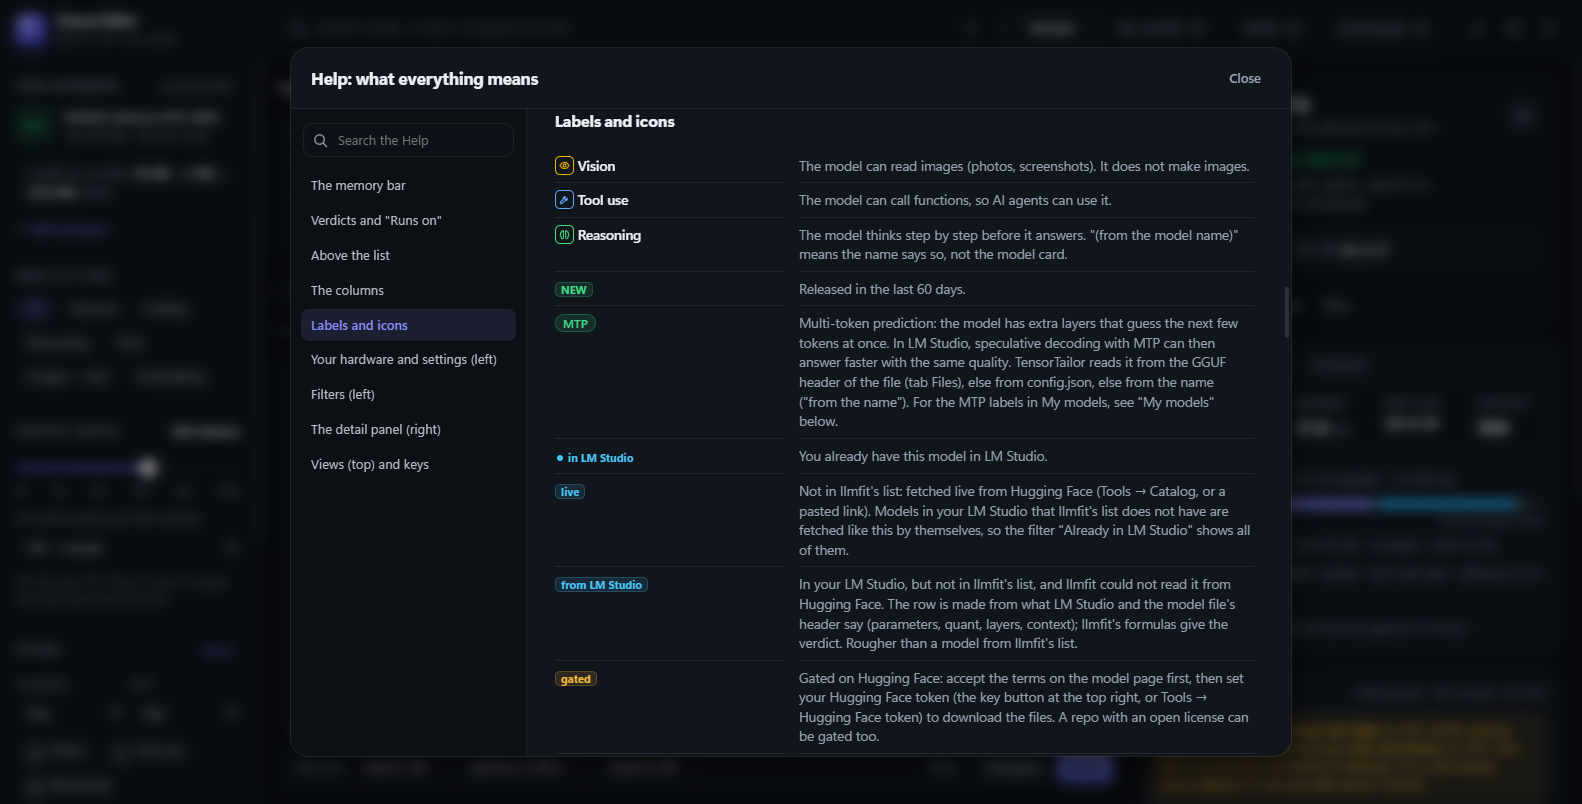
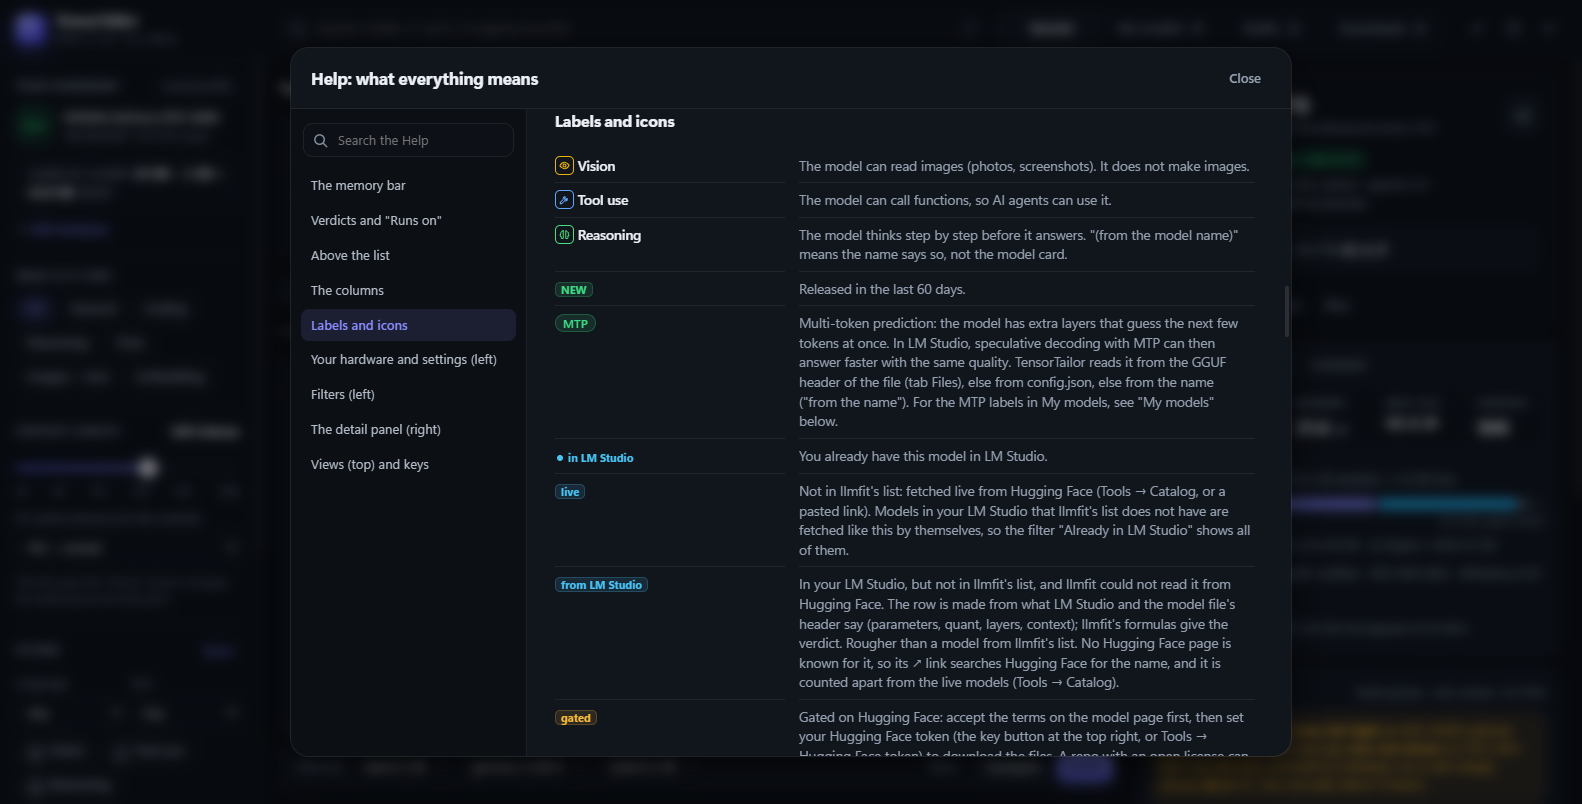
Implemented by Claude Opus 5.5: fix(web): target speed from the route speeds; no made-up Hugging Face links for LM Studio rows
F1: "Can it reach my speed?" now answers from the plan's route speeds. llmfit's own
target check ignores the GPU's bandwidth (llmfit issue #1253, fix PR #1254) and said
"No feasible run path" for a target below the speed it shows itself.
F2: rows made from LM Studio's data ("lmstudio/<key>") get a Hugging Face search link
instead of a page that does not exist, no tree or config.json requests, and are counted
apart from live models in Tools, the catalog window and About.
New test test-plan-reach (19 tests), Help and README updated, README pictures retaken.

Changed region(s): [[0.4956, 0.7774, 0.7743, 0.9328], [0.3407, 0.8085, 0.4027, 0.9017]]

diff --git a/web/app.html b/web/app.html
@@ -1151,7 +1151,7 @@ details.by-hand .hint { margin-top: 6px; }
       <dt><span class="tag okay">MTP</span></dt><dd>Multi-token prediction: the model has extra layers that guess the next few tokens at once. In LM Studio, speculative decoding with MTP can then answer faster with the same quality. TensorTailor reads it from the GGUF header of the file (tab Files), else from config.json, else from the name ("from the name"). For the MTP labels in My models, see "My models" below.</dd>
       <dt><span class="chip lms">in LM Studio</span></dt><dd>You already have this model in LM Studio.</dd>
       <dt><span class="chip live">live</span></dt><dd>Not in llmfit's list: fetched live from Hugging Face (Tools → Catalog, or a pasted link). Models in your LM Studio that llmfit's list does not have are fetched like this by themselves, so the filter "Already in LM Studio" shows all of them.</dd>
-      <dt><span class="chip live">from LM Studio</span></dt><dd>In your LM Studio, but not in llmfit's list, and llmfit could not read it from Hugging Face. The row is made from what LM Studio and the model file's header say (parameters, quant, layers, context); llmfit's formulas give the verdict. Rougher than a model from llmfit's list.</dd>
+      <dt><span class="chip live">from LM Studio</span></dt><dd>In your LM Studio, but not in llmfit's list, and llmfit could not read it from Hugging Face. The row is made from what LM Studio and the model file's header say (parameters, quant, layers, context); llmfit's formulas give the verdict. Rougher than a model from llmfit's list. No Hugging Face page is known for it, so its ↗ link searches Hugging Face for the name, and it is counted apart from the live models (Tools → Catalog).</dd>
       <dt><span class="chip lock">gated</span></dt><dd>Gated on Hugging Face: accept the terms on the model page first, then set your Hugging Face token (the key button at the top right, or Tools → Hugging Face token) to download the files. A repo with an open license can be gated too.</dd>
       <dt><span class="chip">license</span> (grey)</dt><dd>Not a plain open license (MIT, Apache): Llama, Gemma, non-commercial or research licenses have their own terms. Read them on the model page. Not gated: the files download without a token.</dd>
       <dt><span class="chip lock">license</span> (orange)</dt><dd>The same kind of license, but not checked yet: the guess comes from the license name. Open the model and TensorTailor asks Hugging Face; the label then becomes <b>gated</b> or a grey <b>license</b>.</dd>
@@ -1202,7 +1202,7 @@ details.by-hand .hint { margin-top: 6px; }
       <dt>Files</dt><dd>The real files on Hugging Face, one line per file (point at a long name for the full name; the copy button copies the download link), the file "best for this PC" first, and the verdict per file. <b>Download</b> saves a file into your folder and checks its SHA-256 at the end. <b>Show SHA-256 of each file</b> (under the table) shows the codes; click one to copy it.</dd>
       <dt>Run</dt><dd>"LM Studio load settings for this PC": what to set in LM Studio's load dialog for this model (context length, GPU offload, flash attention, K/V cache, speculative decoding, remember settings), with the reason; point at a <span class="q">?</span> for what each setting does. <b>Set it by hand in LM Studio</b> (folded) says where these settings are in LM Studio. <b>Load in LM Studio with these settings</b> (when the model is in LM Studio and its server is on) first shows what will be sent, then asks LM Studio to load it: context length, flash attention, KV cache on the GPU and MTP. LM Studio's API cannot set GPU offload and K/V cache quantization, so LM Studio keeps its own setting for those. A model that is loaded already is unloaded first; other loaded models stay, unless you tick the box to unload them.</dd>
       <dt>Run: Run it on this PC</dt><dd>Ready commands for LM Studio, llama.cpp or Ollama. With LM Studio, a model you already have shows <b>your</b> file first ("Your file in LM Studio · quant Q4_K_S"); llmfit's best file is named below it as an option: higher quality but less room for context, or smaller but lower quality. Below it: settings for AI agents (OpenCode, Codex).</dd>
-      <dt>Plan</dt><dd>llmfit's planner: the minimum and recommended hardware, which routes work here (<b>GPU only</b>, <b>GPU + system RAM</b>, <b>CPU only</b>) with a verdict and speed for each, and <b>What would make it better?</b>: for example "+1.7 GB VRAM → Runs well (llmfit: Good)". Below: whether a target speed is reached, how many chats fit at the same time, and the disk space for your best models.</dd>
+      <dt>Plan</dt><dd>llmfit's planner: the minimum and recommended hardware, which routes work here (<b>GPU only</b>, <b>GPU + system RAM</b>, <b>CPU only</b>) with a verdict and speed for each, and <b>What would make it better?</b>: for example "+1.7 GB VRAM → Runs well (llmfit: Good)". Below: whether a target speed is reached (the answer uses the route speeds above), how many chats fit at the same time, and the disk space for your best models.</dd>
     </dl>
 
     <h3>Views (top) and keys</h3>
@@ -1667,7 +1667,7 @@ function rowHTML(r) {
   return `<div class="row ${b.plain === "nofit" ? "is-tight" : ""}" role="option" aria-selected="${m.id === state.selected}" data-id="${esc(m.id)}">
     <div class="row-acts"><button class="star" data-watch="${esc(m.id)}" aria-pressed="${state.watch.has(m.id)}" title="Favorite (W): star the models you like; see them all with 'Only my favorites'" aria-label="Favorite ${esc(m.name)}">${state.watch.has(m.id) ? "★" : "☆"}</button><input type="checkbox" data-cmp="${esc(m.id)}" ${state.compare.includes(m.id) ? "checked" : ""} title="Select for compare or battle (C)" aria-label="Select ${esc(m.name)}"></div>
     ${avatar(m)}
-    <div class="m-name"><div class="nm"><span class="t">${esc(m.name)}</span><a class="hf-link" href="https://huggingface.co/${esc(m.id)}" target="_blank" rel="noopener" title="Open on Hugging Face" aria-label="Open ${esc(m.name)} on Hugging Face">↗</a>${m.moe ? `<span class="chip moe" title="${esc(CHIP_TIP.moe)}">MoE</span>` : ""}${r.upgradeOnly ? `<span class="chip upg" title="${esc(CHIP_TIP.upg)}">upgrade</span>` : ""}</div>
+    <div class="m-name"><div class="nm"><span class="t">${esc(m.name)}</span><a class="hf-link" href="${esc(hfHref(m.id))}" target="_blank" rel="noopener" title="${m.fromLms ? "Search Hugging Face for this model" : "Open on Hugging Face"}" aria-label="${m.fromLms ? "Search Hugging Face for" : "Open"} ${esc(m.name)}${m.fromLms ? "" : " on Hugging Face"}">↗</a>${m.moe ? `<span class="chip moe" title="${esc(CHIP_TIP.moe)}">MoE</span>` : ""}${r.upgradeOnly ? `<span class="chip upg" title="${esc(CHIP_TIP.upg)}">upgrade</span>` : ""}</div>
       <div class="sub">${capIcons(m.caps)}${isNew(m) ? `<span class="chip new" title="${esc(CHIP_TIP.new + (m.added ? " Released " + m.added + "." : ""))}">NEW</span>` : ""}${m.fromLms ? `<span class="chip live" title="${esc(CHIP_TIP.fromLms)}">from LM Studio</span>` : m.live ? `<span class="chip live" title="Fetched live from Hugging Face${m.live !== "yes" ? " on " + esc(m.live) : ""}, not in llmfit's list">live</span>` : ""}${String(b.conf).startsWith("measured") ? `<span class="chip meas" title="${esc(CHIP_TIP.meas)}">measured</span>` : ""}${m.runtime && m.runtime !== "LlamaCpp" ? `<span class="chip vllm" title="${esc(CHIP_TIP.runtime.replace("{rt}", m.runtime))}">${esc(m.runtime)}</span>` : ""}${lms ? `<span class="chip lms" title="${esc(CHIP_TIP.lms)}">in LM Studio</span>` : ""}${licenseChip(m)}<span class="idt">${esc(m.provider)} · <span title="Number of parameters (B = billion, M = million)">${fmtParams(m.params)}</span></span></div></div>
     <div title="Best file: the best quantization (file version) llmfit picks for this PC. Q8_0 = near original quality; lower numbers (Q4, Q3, Q2) = smaller and faster, but less precise."><span class="quant">${esc(b.q)}</span></div>
     <div class="membar${b.vram > 0 && b.inRam <= 0.05 && b.need / b.vram > 0.88 ? " hot" : ""}" title="${esc(memTip(b))}">${memBar(b)}<div class="memlabel"><span>${memLabel(b)}</span>${b.vram > 0 ? `<span class="pct">${Math.round(100 * Math.min(b.inGpu, b.vram) / b.vram)}%</span>` : ""}</div></div>
@@ -1677,6 +1677,10 @@ function rowHTML(r) {
 }
 const sizeBucket = (p) => (p <= 8 ? "s" : p <= 35 ? "m" : p <= 100 ? "l" : "xl");
 // GGUF sources from llmfit; a model whose own repo is a GGUF repo is its own source.
+// Rows made from LM Studio's data ("lmstudio/<key>", label "from LM Studio") have no Hugging Face repo: no
+// links to one and no requests for one; the link searches Hugging Face for the name instead.
+function lmsOnly(id) { const t = state.live.meta[id]; return !!(t && t.src === "lms"); }
+function hfHref(id) { return lmsOnly(id) ? "https://huggingface.co/models?search=" + encodeURIComponent(String(id).replace(/^lmstudio\//, "")) : "https://huggingface.co/" + id; }
 function ggufSources(m) { return m.gguf.length ? m.gguf : /gguf/i.test(m.id) ? [{ repo: m.id, provider: m.provider }] : []; }
 function chosenRepo(m) {
   const custom = state.srcIdx["repo:" + m.id];
@@ -2303,8 +2307,8 @@ function tabRun(r) {
   const repo = chosenRepo(m);
   // The settings card reads layers, MTP and a drafter from the GGUF repo, or else from the model's own repo
   // (many fine-tunes keep their .gguf files there).
-  const setRepo = repo || m.id;
-  if (!state.files.get(setRepo)) setTimeout(() => loadFiles(setRepo), 0);
+  const setRepo = repo || (lmsOnly(m.id) ? null : m.id);
+  if (setRepo && !state.files.get(setRepo)) setTimeout(() => loadFiles(setRepo), 0);
   const f = repo ? state.files.get(repo) : null;
   const file = f && f.files ? (f.files.find((x) => x.path.endsWith(".gguf") && quantOfFile(x.path) === String(b.q).toUpperCase()) || {}).path : null;
   const ctx = r.ctx || CTX_STEPS[state.ctxIdx], kv = state.kvq;
@@ -2343,14 +2347,17 @@ function tabRun(r) {
 }
 
 /* ---------- Plan tab: llmfit planner ---------- */
-async function loadTargetPlan(r) {
-  const key = "target|" + detailKey(r.m.id) + "|" + state.plan.target;
-  if (state.detail.has(key)) return;
-  const entry = { loading: true }; state.detail.set(key, entry);
-  try { entry.plan = await call("plan", JSON.stringify(hwInput(state.upg.gpu || state.upg.ram)), r.m.id, r.ctx || CTX_STEPS[state.ctxIdx], /^Q\d|^F16|^BF16/i.test(r.best.q) ? r.best.q : null, state.kvq, state.plan.target); }
-  catch (e) { entry.error = e.message; }
-  entry.loading = false;
-  if (state.selected === r.m.id && state.tab === "plan") renderDetail();
+// "Can it reach my speed?" is answered from the routes of the plan above (their speed counts the GPU's memory
+// speed). llmfit's own target check (plan with target_tps) does not, so it said "no route" for a target below
+// the speed it shows itself (llmfit issue #1253, fix in PR #1254).
+function reachText(plan, target) {
+  if (!plan) return "";
+  const routes = (plan.run_paths || []).filter((p) => p.feasible && p.estimated_tps > 0 && p.fit_level !== "TooTight");
+  const hit = routes.find((p) => p.estimated_tps >= target);
+  if (hit) return `<div class="ok-box">Yes: <b>${esc(ROUTE_NAME[hit.path] || hit.path)}</b> reaches about ${fmtT(hit.estimated_tps)} tok/s.</div>`;
+  const best = routes.slice().sort((a, c) => c.estimated_tps - a.estimated_tps)[0];
+  if (!best) return `<div class="warn-box">No route runs this model on this PC.</div>`;
+  return `<div class="warn-box">Not reached: the fastest route here, <b>${esc(ROUTE_NAME[best.path] || best.path)}</b>, gives about ${fmtT(best.estimated_tps)} tok/s. A smaller file (quant) or a GPU with faster memory helps.</div>`;
 }
 // Plan tab in plain words: route names, hardware as a tile, upgrade lines with an arrow and a verdict label.
 const ROUTE_NAME = { gpu: "GPU only", cpu_offload: "GPU + system RAM", cpu_only: "CPU only", moe_offload: "MoE offload (experts in RAM)" };
@@ -2364,8 +2371,6 @@ function upgText(desc) {
 function hwText(h) { return h ? `${h.vram_gb != null ? gb(h.vram_gb) + " VRAM · " : ""}${gb(h.ram_gb)} RAM · ${h.cpu_cores} cores` : "—"; }
 function tabPlan(r, d) {
   const b = r.best, plan = d && d.plan;
-  const tKey = "target|" + detailKey(r.m.id) + "|" + state.plan.target, tp = state.detail.get(tKey);
-  if (!tp) loadTargetPlan(r);
   const alt = plan ? (plan.kv_alternatives || []).find((a) => a.kv_quant === state.kvq) || (plan.kv_alternatives || [])[0] : null;
   const kvSession = alt ? alt.kv_cache_gb : 0;
   const free = b.vram - (b.need - kvSession);
@@ -2381,7 +2386,7 @@ function tabPlan(r, d) {
   </section>
   <section class="card"><div class="card-head"><h2>Can it reach my speed?</h2><span class="ctx-value">${state.plan.target} tok/s</span></div>
     <input type="range" id="planTarget" min="5" max="150" step="5" value="${state.plan.target}" aria-label="Target speed">
-    ${!tp || tp.loading ? '<div class="loading">Asking the engine…</div>' : tp.error ? `<div class="warn-box">Not on any route: ${esc(tp.error)}</div>` : `<ul class="notes">${(tp.plan.upgrade_deltas || []).length ? tp.plan.upgrade_deltas.map((u) => `<li>${upgText(u.description)}</li>`).join("") : "<li>Reached with your current hardware.</li>"}</ul>`}
+    ${!d || d.loading ? '<div class="loading">Asking the engine…</div>' : reachText(plan, state.plan.target)}
   </section>
   <section class="card"><div class="card-head"><h2>How many chats at the same time?</h2><span class="ctx-value">${state.plan.users} wanted</span></div>
     <input type="range" id="planUsers" min="1" max="16" step="1" value="${state.plan.users}" aria-label="Chats at the same time">
@@ -2414,7 +2419,7 @@ function renderDetail() {
     ? `<button class="btn primary small" data-headload="${esc(m.id)}" title="Opens the Run tab and shows what will be sent to LM Studio first">Load in LM Studio…</button>`
     : (ggufSources(m).length || /gguf/i.test(m.id)) && b.plain !== "nofit" ? `<button class="btn primary small" data-tab="files" title="Opens the Files tab: the file marked 'best for this PC' has the Download button">Choose a file to download</button>` : "";
   $("detail").innerHTML = `<section class="card dhead">
-    <div class="dh-top">${avatar(m, true)}<div class="dh-name"><h1 class="d-title">${esc(m.name)}</h1><a class="d-id" href="https://huggingface.co/${esc(m.id)}" target="_blank" rel="noopener" title="Open on Hugging Face">huggingface.co/${esc(m.id)} ↗</a></div><button class="btn icon fav" data-watch="${esc(m.id)}" aria-pressed="${fav}" aria-label="Favorite" title="Favorite (W): see all favorites with 'Only my favorites'">${fav ? "★" : "☆"}</button></div>
+    <div class="dh-top">${avatar(m, true)}<div class="dh-name"><h1 class="d-title">${esc(m.name)}</h1><a class="d-id" href="${esc(hfHref(m.id))}" target="_blank" rel="noopener" title="${m.fromLms ? "Made from LM Studio's data: no Hugging Face page is known. Search Hugging Face for it" : "Open on Hugging Face"}">${m.fromLms ? "No Hugging Face page known · search Hugging Face" : `huggingface.co/${esc(m.id)}`}↗</a></div><button class="btn icon fav" data-watch="${esc(m.id)}" aria-pressed="${fav}" aria-label="Favorite" title="Favorite (W): see all favorites with 'Only my favorites'">${fav ? "★" : "☆"}</button></div>
     <div class="d-facts">${capIcons(m.caps)}${mtpTag(m)}${m.fromLms ? `<span class="tag okay" title="${esc(CHIP_TIP.fromLms)}">from LM Studio</span>` : m.live ? `<span class="tag okay" title="Not in llmfit's list: fetched live from Hugging Face and converted with llmfit's own code">live from Hugging Face${m.live !== "yes" ? " · " + esc(m.live) : ""}</span>` : ""}${lms ? `<span class="chip lms" title="${esc(CHIP_TIP.lms)}">in LM Studio</span>` : ""}<span class="d-meta">${meta.map((x) => `<span class="mi">${esc(x)}</span>`).join(" · ")}</span></div>
     <div class="d-answer v-${b.plain}">${verdict(b.plain)}<span class="d-file" title="${esc("The quantization (file version) llmfit picks for this PC. Overview, Files and the commands use it.")}">Best file <b>${esc(b.q)}</b></span>${lmsQ ? `<span class="d-file" title="The file you have in LM Studio. The LM Studio settings in Run are for this file.">In LM Studio <b>${esc(lmsQ)}</b></span>` : ""}<span class="spacer"></span>${action}</div>
     <div class="tabs" role="tablist" aria-label="Details">${tabs.map(([k, l]) => `<button role="tab" id="tab-${k}" data-tab="${k}" aria-selected="${state.tab === k}" aria-controls="detailPanel" tabindex="${state.tab === k ? 0 : -1}">${l}</button>`).join("")}</div></section><div class="tab-panel" role="tabpanel" id="detailPanel" aria-labelledby="tab-${state.tab}">${body}</div>`;
@@ -2452,8 +2457,8 @@ async function applyLive() {
   await recompute();
 }
 function renderCatalogText() {
-  const n = state.live.models.length;
-  $("catText").textContent = `Catalog ${state.info.llmfit_ref} · ${state.catalog.length.toLocaleString("en")} models` + (n ? ` (${n} live)` : "");
+  const n = state.live.models.filter((m) => !lmsOnly(m.name)).length, k = state.live.models.length - n;
+  $("catText").textContent = `Catalog ${state.info.llmfit_ref} · ${state.catalog.length.toLocaleString("en")} models` + (n || k ? ` (${[n ? `${n} live` : "", k ? `${k} from LM Studio` : ""].filter(Boolean).join(", ")})` : "");
   $("q").placeholder = "Search models, or paste a Hugging Face link"; $("q").title = `Search ${state.catalog.length.toLocaleString("en")} models by name or publisher, or paste a Hugging Face link and press Enter to check it live`;
 }
 function hfRepoId(s) {
@@ -2561,15 +2566,18 @@ async function clearLive() {
 function renderCatalogDlg() {
   const L = state.live, r = state.liveResult, ref = esc(state.info.llmfit_ref || "");
   const ranked = new Set(state.results.map((x) => x.m.id));
-  const names = L.models.map((m) => m.name).reverse(), shown = names.filter((n) => ranked.has(n)), left = names.filter((n) => !ranked.has(n));
+  const all = L.models.map((m) => m.name).reverse(), fromLms = all.filter(lmsOnly), names = all.filter((n) => !lmsOnly(n));
+  const shown = names.filter((n) => ranked.has(n)), left = names.filter((n) => !ranked.has(n)), fetched = names.length;
   $("catBody").innerHTML = `<p>The list comes from llmfit ${ref}. llmfit's own updater (<code>llmfit update</code>) adds the newest trending and most downloaded models from Hugging Face. <b>Fetch new models</b> does the same in this page, with llmfit's own code.</p>
     <dl class="lic"><dt>From llmfit ${ref}</dt><dd>${Number(state.info.catalog_models || 0).toLocaleString("en")} models</dd>
-    <dt>Fetched live</dt><dd>${L.models.length ? `${L.models.length} models` + (L.at ? ` · last fetch ${esc(L.at)}` : " (from checked links)") : "none yet"}</dd></dl>
+    <dt>Fetched live</dt><dd>${fetched ? `${fetched} models` + (L.at ? ` · last fetch ${esc(L.at)}` : " (from checked links)") : "none yet"}</dd>
+    ${fromLms.length ? `<dt>From LM Studio</dt><dd>${fromLms.length} models (made from LM Studio's data; not on Hugging Face as far as TensorTailor knows)</dd>` : ""}</dl>
     ${state.liveLog ? `<p class="status-line"><span class="dot warn"></span>${esc(state.liveLog)}</p>` : ""}
     ${r && r.error ? `<div class="warn-box">Stopped: ${esc(r.error)}</div>` : ""}
     ${r && !r.error ? `<p><b>Last fetch:</b> ${r.checked} models checked, ${r.known} already in the list, <b>${r.added.length} added</b>${r.added.length ? ` (${r.added.filter((n) => ranked.has(n)).length} analysed for this PC)` : ""}${r.skipped ? `, ${r.skipped} of a kind llmfit does not list` : ""}.</p>` : ""}
     ${r && r.warn && r.warn.length ? `<p class="hint">Some lists did not load: ${esc(r.warn[0])}</p>` : ""}
     ${shown.length ? `<p style="margin-bottom:0">Fetched models analysed for this PC (${shown.length}, newest first). Click one to open it:</p><ul class="live-list">${shown.map((n) => `<li><button data-show="${esc(n)}">${esc(n)}</button></li>`).join("")}</ul>` : ""}
+    ${fromLms.length ? `<p style="margin-bottom:0">Made from LM Studio's data (label <b>from LM Studio</b>, ${fromLms.length}). Click one to open it:</p><ul class="live-list">${fromLms.map((n) => `<li><button data-show="${esc(n)}">${esc(n.replace(/^lmstudio\//, ""))}</button></li>`).join("")}</ul>` : ""}
     ${left.length ? `<p style="margin-bottom:0">Left out of llmfit's ranking on this PC (${left.length}): ${esc(NOT_RANKED)}</p><ul class="live-list">${left.map((n) => `<li>${esc(n)} <a href="https://huggingface.co/${esc(n)}" target="_blank" rel="noopener">↗</a></li>`).join("")}</ul>` : ""}
     <p class="hint">Fetched models get the label <b>live</b> and stay in this browser until you remove them. Most are new, so the filter "Popular (10,000+ downloads)" can hide them. Gated models (such as Llama) need your token for the exact layout; without it they get llmfit's rough estimate, like in llmfit.</p>`;
   $("btnLiveFetch").disabled = state.liveBusy || !state.ready;
@@ -2628,7 +2636,7 @@ const MTP_WHAT = "MTP (multi-token prediction): the model has extra layers that 
 async function loadMtpConfig(id) {
   if (state.mtp.has(id)) return;
   state.mtp.set(id, { loading: true });
-  const text = await hfConfigText(id);
+  const text = lmsOnly(id) ? null : await hfConfigText(id);
   let layers = null;
   if (text) {
     try {
@@ -3498,7 +3506,7 @@ function viewMine() {
     const best = isEmb ? { text: "", tip: "", warn: "" } : mineBestSetting(x, cat);
     const tipText = best.text;
     const warn = best.warn ? `<div class="hash" style="color:var(--marginal)">Loaded at ${fmtCtx(x.loadedCtx)}: ${best.warn}.</div>` : "";
-    const link = cat ? "https://huggingface.co/" + cat.m.id : "https://huggingface.co/models?search=" + encodeURIComponent(shortName(x.id));
+    const link = cat && !lmsOnly(cat.m.id) ? "https://huggingface.co/" + cat.m.id :"https://huggingface.co/models?search=" + encodeURIComponent(shortName(x.id));
     const lmsCaps = [x.vision ? "vision" : "", x.tools ? "tools" : "", x.reasoning ? "reason" : ""].filter(Boolean);
     const bundled = LMS_BUNDLED.test(x.id);
     // From the model file's own GGUF header (when the folder was read): the strongest source for MTP.
@@ -4032,7 +4040,7 @@ function renderAbout() {
   const b = state.build, i = state.info;
   $("aboutBody").innerHTML = `<p><b>TensorTailor</b> finds the AI models that fit your PC. It runs fully in this page; nothing is installed.</p>
     <dl class="lic"><dt>Engine</dt><dd>llmfit ${esc(i.llmfit_ref || b.llmfit || "")} by Alex Jones, compiled to WebAssembly. MIT License, Copyright (c) 2026 Alex Jones. Changes for the browser only: the clock (web_time) in the recency bonus, and llmfit's update code split so the page can fetch from Hugging Face itself and then use llmfit's own conversion.</dd>
-    <dt>Model catalog</dt><dd>${(i.catalog_models || 0).toLocaleString("en")} models from llmfit's catalog (data from the Hugging Face API)${state.live.models.length ? `, plus ${state.live.models.length} fetched live` : ""}.</dd>
+    <dt>Model catalog</dt><dd>${(i.catalog_models || 0).toLocaleString("en")} models from llmfit's catalog (data from the Hugging Face API)${state.live.models.some((m) => !lmsOnly(m.name)) ? `, plus ${state.live.models.filter((m) => !lmsOnly(m.name)).length} fetched live` : ""}${state.live.models.some((m) => lmsOnly(m.name)) ? `, plus ${state.live.models.filter((m) => lmsOnly(m.name)).length} made from LM Studio's data` : ""}.</dd>
     <dt>This build</dt><dd>${esc(b.built || "")} · commit ${esc(b.commit || "")} · engine ${esc(b.wasm_mb || "")} MB (${esc(b.wasm_gz_mb || "")} MB packed)</dd>
     <dt>Engine SHA-256</dt><dd class="hash">${esc(b.wasm_sha256 || "")}</dd>
     <dt>Rust libraries</dt><dd>The engine also contains Rust crates (MIT, Apache-2.0 and similar licenses). ${b.notices ? `<button class="btn small" id="btnNotices">Show the licenses</button>` : "This local build has no list inside; see THIRD-PARTY-NOTICES.txt with each release."}</dd>

diff --git a/README.md b/README.md
@@ -23,7 +23,8 @@ as WebAssembly. Every build checks that the page gives exactly the same answers 
   setting (the same advice as tab Run). Give it LM Studio's models folder once, and it reads the header of each model file: layers, maximum
   context and MTP, like LM Studio itself shows them, and the size of the KV cache (the memory for the context). LM Studio models that llmfit's list does not have are added
   by themselves (read live from Hugging Face, or made from LM Studio's own data), so the filter **Already in LM
-  Studio** in Models shows all of them. It also asks Hugging Face once a day whether each model file changed there
+  Studio** in Models shows all of them. For a model made from LM Studio's data no Hugging Face page is known, so its
+  ↗ link searches Hugging Face for the name. It also asks Hugging Face once a day whether each model file changed there
   (**update available**, with a link to what changed); **Check SHA-256** compares your file exactly. Below the list,
   **Similar models and disk space** groups models made from the same base model (for example three versions of one
   27B model, 53 GB) and shows how much space keeping one of them would free. Nothing is replaced or deleted.
